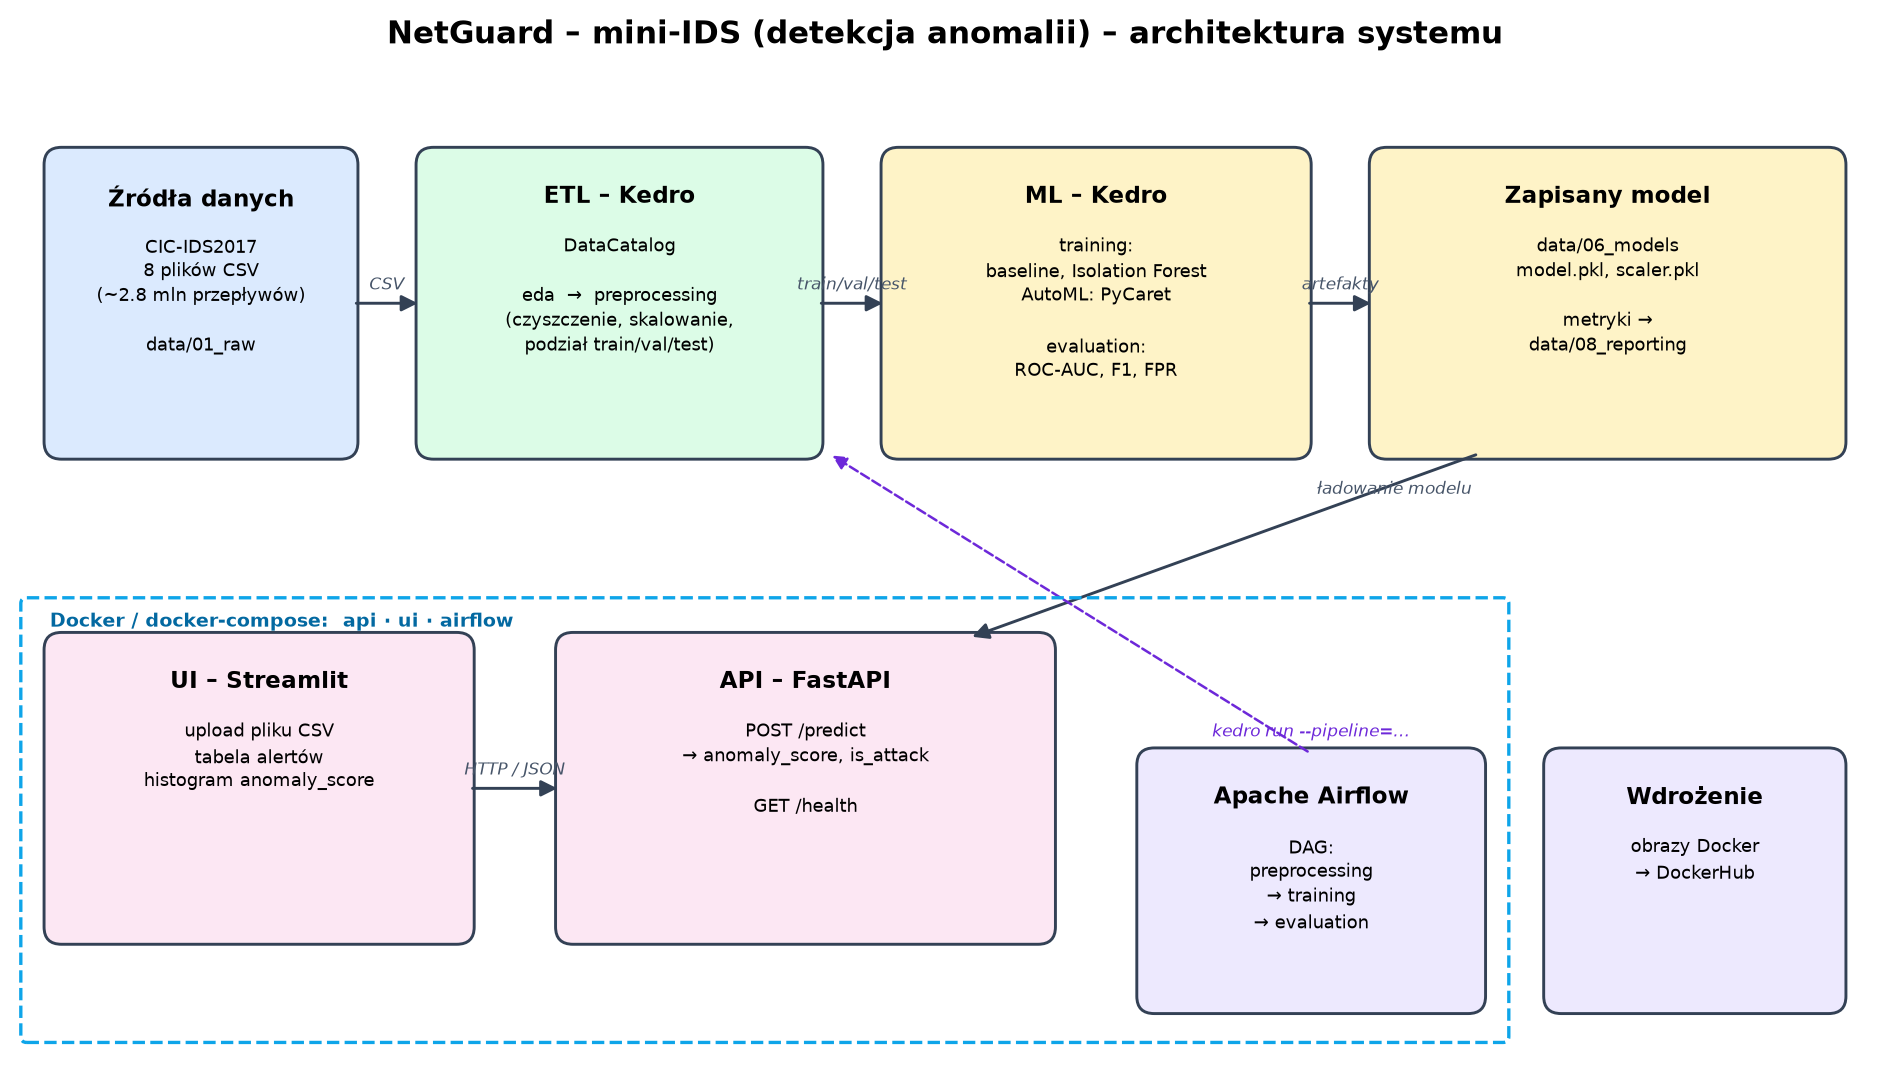
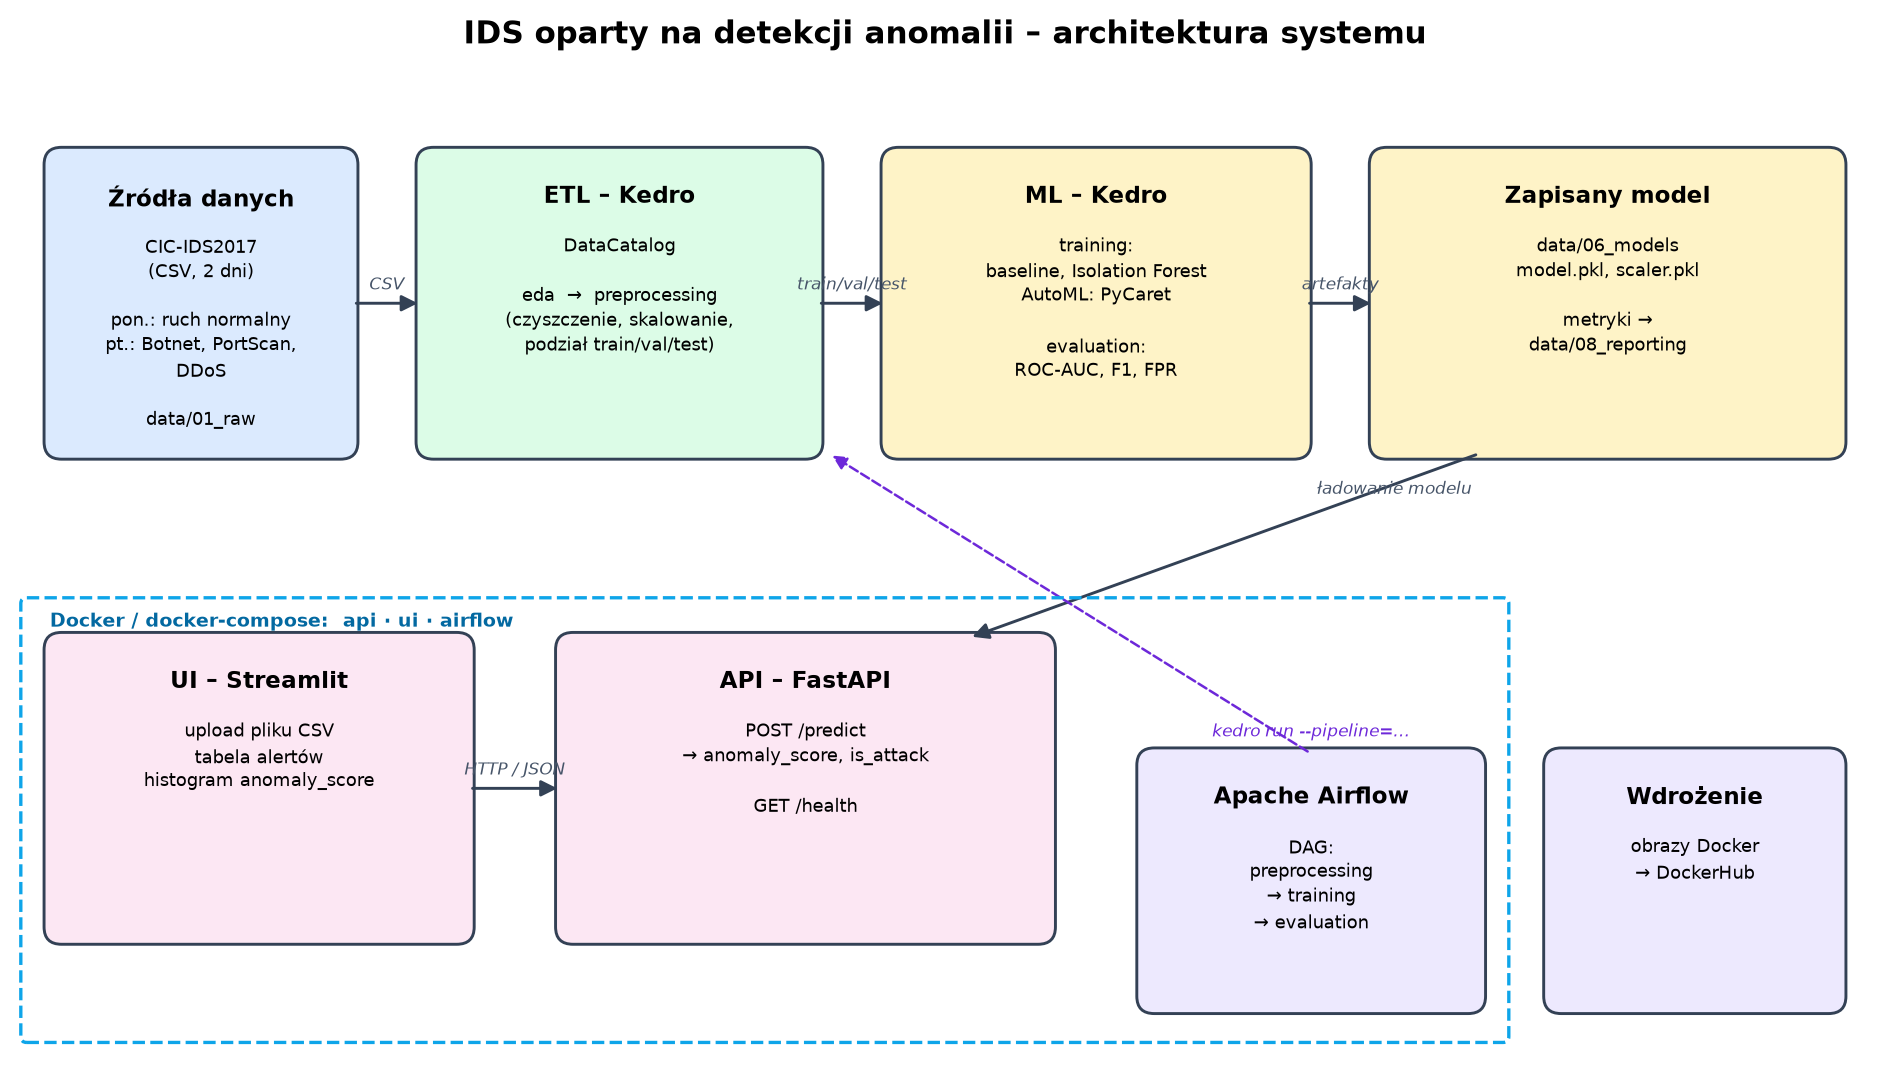
Docs: aktualizacja diagramu, architektury i backlogu pod zakres projektu

Changed region(s): [[0.1873, 0.0, 0.8116, 0.0617], [0.0624, 0.247, 0.1561, 0.4013]]

diff --git a/scripts/draw_architecture.py b/scripts/draw_architecture.py
@@ -50,12 +50,12 @@ def arrow(a, b, label="", side="h"):
                 ha="center", fontsize=8, style="italic", color="#475569")
 
 
-ax.text(8, 8.75, "NetGuard – mini-IDS (detekcja anomalii) – architektura systemu",
+ax.text(8, 8.75, "IDS oparty na detekcji anomalii – architektura systemu",
         ha="center", fontsize=15, weight="bold")
 
 # --- warstwa danych / ETL / ML (gora) ---
 src = box(0.3, 5.2, 2.6, 2.6, "Źródła danych",
-          "CIC-IDS2017\n8 plików CSV\n(~2.8 mln przepływów)\n\ndata/01_raw", COLORS["data"])
+          "CIC-IDS2017\n(CSV, 2 dni)\n\npon.: ruch normalny\npt.: Botnet, PortScan,\nDDoS\n\ndata/01_raw", COLORS["data"])
 etl = box(3.5, 5.2, 3.4, 2.6, "ETL – Kedro",
           "DataCatalog\n\neda  →  preprocessing\n(czyszczenie, skalowanie,\npodział train/val/test)", COLORS["etl"])
 ml = box(7.5, 5.2, 3.6, 2.6, "ML – Kedro",

diff --git a/docs/architecture.md b/docs/architecture.md
@@ -1,4 +1,4 @@
-# Architektura – NetGuard (mini-IDS)
+# Architektura – IDS (detekcja anomalii)
 
 ![Diagram architektury](architecture_diagram.png)
 
@@ -6,11 +6,11 @@ Diagram generuje `python scripts/draw_architecture.py`.
 
 ```mermaid
 flowchart LR
-    A[CIC-IDS2017 CSV] --> B[Kedro: eda]
+    A[CIC-IDS2017 CSV<br/>poniedziałek + piątek] --> B[Kedro: eda]
     A --> C[Kedro: preprocessing]
-    C --> D[Kedro: training<br/>Isolation Forest / PyCaret]
+    C --> D[Kedro: training<br/>baseline / Isolation Forest / PyCaret]
     D --> E[Kedro: evaluation]
-    D --> F[(model.pkl)]
+    D --> F[(model.pkl + scaler.pkl)]
     F --> G[FastAPI /predict]
     G <--> H[Streamlit UI]
     I[Airflow DAG] -.->|kedro run| C & D & E
@@ -18,8 +18,8 @@ flowchart LR
 
 | Moduł | Opis |
 |---|---|
-| **ETL (Kedro)** | wczytanie CSV z `data/01_raw`, EDA, czyszczenie (inf/NaN, duplikaty), skalowanie, podział train/val/test po dniach |
-| **ML** | trening detektora na ruchu normalnym, dobór progu, metryki, zapis modelu do `data/06_models` |
+| **ETL (Kedro)** | wczytanie 4 plików CSV z `data/01_raw`, EDA, czyszczenie (inf/NaN, duplikaty, kolumny stałe), skalowanie, podział: train = poniedziałek, val/test = piątek |
+| **ML** | trening detektora na ruchu normalnym, dobór progu (FPR ≤ 1%), metryki, zapis modelu do `data/06_models` |
 | **API (FastAPI)** | `POST /predict` przyjmuje przepływy i zwraca `anomaly_score` oraz `is_attack`; `GET /health` |
 | **UI (Streamlit)** | upload pliku CSV, tabela podejrzanych przepływów, histogram wyników |
 | **Airflow** | DAG: preprocessing → training → evaluation |

diff --git a/docs/backlog.md b/docs/backlog.md
@@ -7,7 +7,7 @@ Tablica: GitHub Projects (To Do / In Progress / Done), zadania jako Issues.
 | 1 | Konfiguracja Kedro i repozytorium | 1 | Done |
 | 2 | Wybór tematu i danych, README | 1 | Done |
 | 3 | Diagram architektury | 1 | Done |
-| 4 | Pobranie danych CIC-IDS2017 | 2 | In Progress |
+| 4 | Pobranie danych CIC-IDS2017 (poniedziałek + piątek) | 2 | In Progress |
 | 5 | EDA (notebook + pipeline `eda` + raport) | 2 | To Do |
 | 6 | Preprocessing danych | 3 | To Do |
 | 7 | Testy jednostkowe | 3 | To Do |
